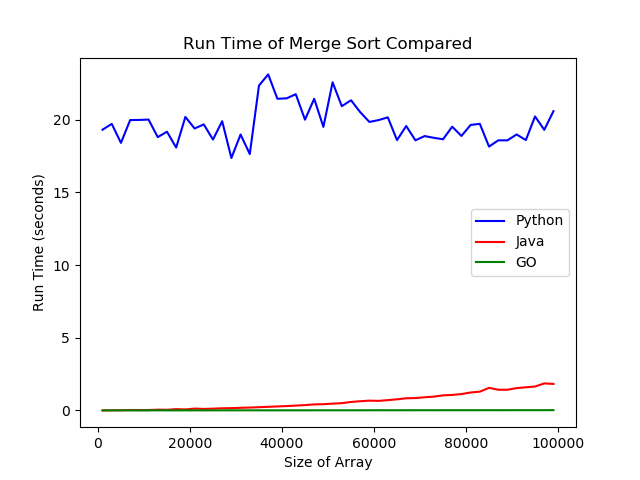
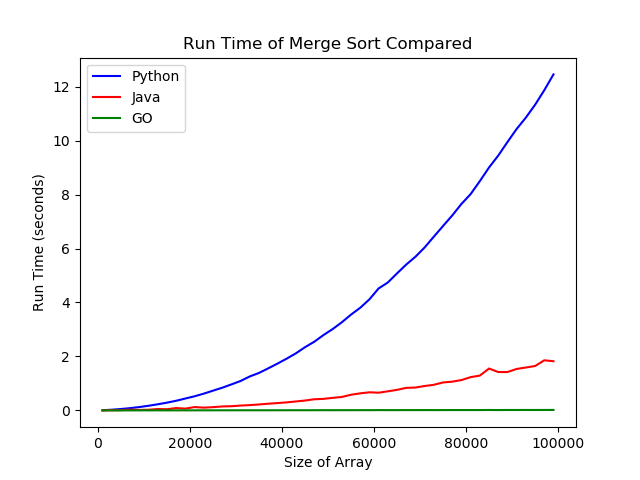
Fixed

diff --git a/Assignment24/mergeSortPy/mergeSortPy.py b/Assignment24/mergeSortPy/mergeSortPy.py
@@ -1,8 +1,8 @@
 import numpy as np
 import time
 
-def getRandArray():
-    return np.random.randint(1000, size=100000) 
+def getRandArray(n):
+    return np.random.randint(1000, size=n) 
 
 def mergeSort(a):
     if len(a) > 1:
@@ -33,7 +33,7 @@ def runTest():
     size = 1000
     timeArray = []
     while size <= 100000:
-        arr = getRandArray()
+        arr = getRandArray(size)
         start = time.time()
         mergeSort(arr)
         end = time.time() - start
